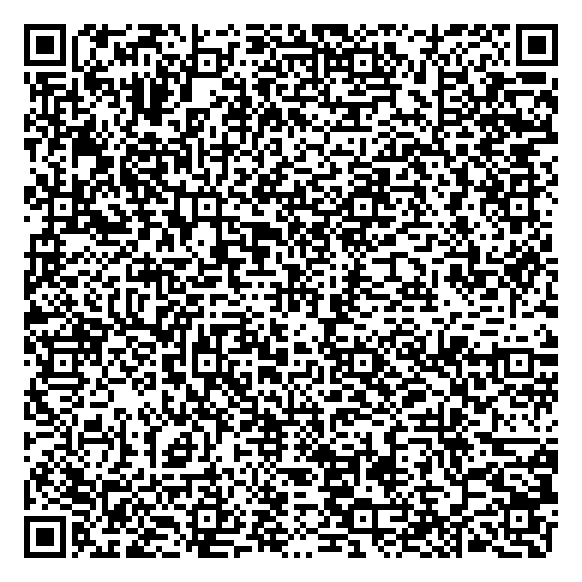
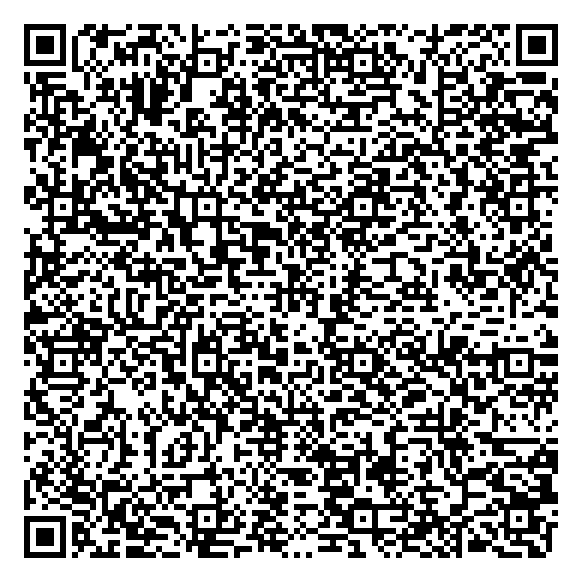
htyf

diff --git a/__tests__/runWhenIdle.test.ts b/__tests__/runWhenIdle.test.ts
@@ -1,0 +1,83 @@
+import runWhenIdle from '../src/utils/runWhenIdle';
+
+const originalIdleCallback = Object.getOwnPropertyDescriptor(
+    globalThis,
+    'requestIdleCallback',
+);
+
+describe('idle task scheduling in the HTYF host', () => {
+    beforeEach(() => {
+        jest.useFakeTimers();
+        Object.defineProperty(globalThis, 'requestIdleCallback', {
+            configurable: true,
+            writable: true,
+            value: undefined,
+        });
+    });
+
+    afterEach(() => {
+        jest.useRealTimers();
+        if (originalIdleCallback) {
+            Object.defineProperty(globalThis, 'requestIdleCallback', originalIdleCallback);
+        } else {
+            Reflect.deleteProperty(globalThis, 'requestIdleCallback');
+        }
+    });
+
+    test('yields before running when the host has no idle callback API', async () => {
+        const task = jest.fn(() => 42);
+        const result = runWhenIdle(task);
+
+        expect(task).not.toHaveBeenCalled();
+        await jest.runAllTimersAsync();
+
+        await expect(result).resolves.toBe(42);
+        expect(task).toHaveBeenCalledTimes(1);
+    });
+
+    test('uses an idle deadline without running the task immediately', async () => {
+        const callbacks: Array<() => void> = [];
+        const requestIdle = jest.fn((callback: () => void) => {
+            callbacks.push(callback);
+            return 1;
+        });
+        Object.defineProperty(globalThis, 'requestIdleCallback', {value: requestIdle});
+        const task = jest.fn(() => 'saved');
+        const result = runWhenIdle(task);
+
+        expect(requestIdle).toHaveBeenCalledWith(expect.any(Function), {timeout: 100});
+        expect(task).not.toHaveBeenCalled();
+        callbacks[0]?.();
+
+        await expect(result).resolves.toBe('saved');
+    });
+
+    test('waits for an asynchronous task to finish', async () => {
+        let finish: ((value: number) => void) | undefined;
+        const task = jest.fn(() => new Promise<number>(resolve => {
+            finish = resolve;
+        }));
+        const settled = jest.fn();
+        const result = runWhenIdle(task).then(value => {
+            settled(value);
+            return value;
+        });
+
+        await jest.runAllTimersAsync();
+        expect(task).toHaveBeenCalledTimes(1);
+        expect(settled).not.toHaveBeenCalled();
+        finish?.(42);
+
+        await expect(result).resolves.toBe(42);
+    });
+
+    test('propagates synchronous errors and asynchronous rejections', async () => {
+        const error = new Error('storage failed');
+        for (const task of [() => {throw error;}, () => Promise.reject(error)]) {
+            await Promise.all([
+                expect(runWhenIdle(task)).rejects.toBe(error),
+                jest.runAllTimersAsync(),
+            ]);
+        }
+    });
+});

diff --git a/__tests__/musicSheetStorage.test.ts b/__tests__/musicSheetStorage.test.ts
@@ -1,0 +1,36 @@
+jest.mock('react-native', () => ({}));
+jest.mock('../src/utils/getOrCreateMMKV', () => ({
+    __esModule: true,
+    default: () => mockDatabase,
+}));
+
+import storage from '../src/core/musicSheet/storage';
+
+const mockData = new Map<string, string>();
+const mockDatabase = {
+    set: jest.fn((key: string, value: string) => mockData.set(key, value)),
+    getString: (key: string) => mockData.get(key),
+};
+
+describe('music sheet persistence without InteractionManager', () => {
+    beforeEach(() => {
+        jest.useFakeTimers();
+        mockData.clear();
+        mockDatabase.set.mockClear();
+    });
+
+    afterEach(() => {
+        jest.useRealTimers();
+    });
+
+    test('persists the startup sheet list before the write promise resolves', async () => {
+        const sheets = [{id: 'startup-sheet', title: 'My music'}];
+        await Promise.all([
+            expect(storage.setSheets(sheets)).resolves.toBeUndefined(),
+            jest.runAllTimersAsync(),
+        ]);
+
+        expect(mockDatabase.set).toHaveBeenCalledWith('data', JSON.stringify(sheets));
+        expect(storage.getSheets()).toEqual(sheets);
+    });
+});

diff --git a/src/utils/runWhenIdle.ts b/src/utils/runWhenIdle.ts
@@ -1,0 +1,22 @@
+/**
+ * 将任务延后到 JS 空闲时执行；宿主未提供 idle API 时让出当前事件循环。
+ * 返回的 Promise 等待任务及其异步结果完成，并向调用方传递异常。
+ * 空闲回调设置 100ms 超时，避免繁忙界面一直推迟歌单写入或下载任务。
+ */
+export default function runWhenIdle<T>(task: () => T | PromiseLike<T>): Promise<T> {
+    return new Promise((resolve, reject) => {
+        const execute = () => {
+            try {
+                resolve(task());
+            } catch (error) {
+                reject(error);
+            }
+        };
+
+        if (typeof globalThis.requestIdleCallback === 'function') {
+            globalThis.requestIdleCallback(execute, {timeout: 100});
+        } else {
+            setTimeout(execute, 0);
+        }
+    });
+}

diff --git a/src/core/pluginManager.ts b/src/core/pluginManager.ts
@@ -14,7 +14,8 @@ import axios from "axios";
 import bigInt from "big-integer";
 import qs from "qs";
 import * as webdav from "webdav";
-import { InteractionManager, ToastAndroid } from "react-native";
+import { ToastAndroid } from "react-native";
+import runWhenIdle from "@/utils/runWhenIdle";
 import pathConst from "@/constants/pathConst";
 import { compare, satisfies } from "compare-versions";
 import DeviceInfo from "react-native-device-info";
@@ -1458,7 +1459,7 @@ function useSortedPlugins() {
     );
 
     useEffect(() => {
-        InteractionManager.runAfterInteractions(() => {
+        runWhenIdle(() => {
             setSortedPlugins(
                 [..._plugins].sort((a, b) =>
                     (_pluginMetaAll[a.name]?.order ?? Infinity) -

diff --git a/src/pages/musicDetail/components/bottom/playControl.tsx b/src/pages/musicDetail/components/bottom/playControl.tsx
@@ -1,5 +1,6 @@
 import React from 'react';
-import {InteractionManager, StyleSheet, View} from 'react-native';
+import {StyleSheet, View} from 'react-native';
+import runWhenIdle from '@/utils/runWhenIdle';
 import rpx from '@/utils/rpx';
 import repeatModeConst from '@/constants/repeatModeConst';
 
@@ -32,7 +33,7 @@ export default function () {
                     name={repeatModeConst[repeatMode].icon}
                     size={rpx(56)}
                     onPress={async () => {
-                        InteractionManager.runAfterInteractions(async () => {
+                        runWhenIdle(async () => {
                             await sleep(20);
                             TrackPlayer.toggleRepeatMode();
                         });

diff --git a/src/components/panels/types/playList/header.tsx b/src/components/panels/types/playList/header.tsx
@@ -1,5 +1,6 @@
 import React from 'react';
-import {InteractionManager, StyleSheet, View} from 'react-native';
+import {StyleSheet, View} from 'react-native';
+import runWhenIdle from '@/utils/runWhenIdle';
 import rpx from '@/utils/rpx';
 import ThemeText from '@/components/base/themeText';
 import repeatModeConst from '@/constants/repeatModeConst';
@@ -25,7 +26,7 @@ export default function Header() {
             </ThemeText>
             <IconTextButton
                 onPress={() => {
-                    InteractionManager.runAfterInteractions(async () => {
+                    runWhenIdle(async () => {
                         await sleep(20);
                         TrackPlayer.toggleRepeatMode();
                     });

diff --git a/src/core/musicSheet/storage.ts b/src/core/musicSheet/storage.ts
@@ -1,6 +1,6 @@
 import getOrCreateMMKV from '@/utils/getOrCreateMMKV.ts';
 import safeParse from '@/utils/safeParse.ts';
-import {InteractionManager} from 'react-native';
+import runWhenIdle from '@/utils/runWhenIdle';
 import safeStringify from '@/utils/safeStringify.ts';
 import {SortType} from '@/constants/commonConst.ts';
 
@@ -11,7 +11,7 @@ function getStorageBase(key: string) {
 }
 
 async function setStorageBase(key: string, value: any) {
-    return InteractionManager.runAfterInteractions(() => {
+    return runWhenIdle(() => {
         const mmkv = getOrCreateMMKV(`LocalSheet.${key}`);
         mmkv.set('data', safeStringify(value));
     });

diff --git a/src/core/download.ts b/src/core/download.ts
@@ -7,7 +7,7 @@ import { getQualityOrder } from "@/utils/qualities";
 import StateMapper from "@/utils/stateMapper";
 import Toast from "@/utils/toast";
 import { produce } from "immer";
-import { InteractionManager } from "react-native";
+import runWhenIdle from "@/utils/runWhenIdle";
 import { copyFile, downloadFile, exists, unlink } from '@dr.pogodin/react-native-fs';
 
 import Config from "./config.ts";
@@ -353,7 +353,7 @@ async function downloadNext() {
 }
 
 async function downloadNextAfterInteraction() {
-    InteractionManager.runAfterInteractions(downloadNext);
+    runWhenIdle(downloadNext);
 }
 
 /** 加入下载队列 */

diff --git a/readme.md b/readme.md
@@ -5,12 +5,12 @@ MusicFree for the HTYF host, with plugin search, playback, lyrics and playlists.
 
 ## 预览、分享与使用 / Preview, Share and Use
 
-[打开分享页 / Open the share page](https://mp.dagouzhi.com/share?data=%7B%22type%22%3A%22app%22%2C%22version%22%3A%220.0.64%22%2C%22name%22%3A%22MusicFree%22%2C%22appid%22%3A%22plugin_music%22%2C%22rotate%22%3A%22portrait%22%2C%22appUrlConfig%22%3A%22https%3A%2F%2Fraw.githubusercontent.com%2Fhtyf-mp-community%2Fdemo%2Fmain%2Fv2%2Fplugin_music%2Flatest%2Fapp.json%22%2C%22zipUrl%22%3A%22https%3A%2F%2Fraw.githubusercontent.com%2Fhtyf-mp-community%2Fdemo%2Fmain%2Fv2%2Fplugin_music%2Flatest%2Fdist.dgz%22%2C%22projectname%22%3A%22MusicFree%22%2C%22engines%22%3A%222.0.0%22%7D) · 应用 ID / App ID: `plugin_music` · 版本 / Version: `0.0.64`
+[打开分享页 / Open the share page](https://mp.dagouzhi.com/share?data=%7B%22type%22%3A%22app%22%2C%22version%22%3A%220.0.66%22%2C%22name%22%3A%22MusicFree%22%2C%22appid%22%3A%22plugin_music%22%2C%22rotate%22%3A%22portrait%22%2C%22appUrlConfig%22%3A%22https%3A%2F%2Fraw.githubusercontent.com%2Fhtyf-mp-community%2Fdemo%2Fmain%2Fv2%2Fplugin_music%2Flatest%2Fapp.json%22%2C%22zipUrl%22%3A%22https%3A%2F%2Fraw.githubusercontent.com%2Fhtyf-mp-community%2Fdemo%2Fmain%2Fv2%2Fplugin_music%2Flatest%2Fdist.dgz%22%2C%22projectname%22%3A%22MusicFree%22%2C%22engines%22%3A%222.0.0%22%7D) · 应用 ID / App ID: `plugin_music` · 版本 / Version: `0.0.66`
 
 ![MusicFree 分享二维码 / MusicFree share QR code](docs/assets/htyf-share-qr.png)
 
-此入口需要红糖云服 App。线上配置与资源地址可访问，当前为旧构建；此次模板更新后的资源包尚未上传，扫码添加和打开的真机验证待完成。
-This entry requires the HTYF App. The online config and package are reachable and serve the previous build. The package from this template update has not been uploaded; device scan, add and open checks are pending.
+此入口需要红糖云服 App。线上配置与资源地址可访问，当前为旧构建；0.0.66 修复包尚未上传，扫码添加和打开的真机验证待完成。
+This entry requires the HTYF App. The online config and package are reachable and serve the previous build. The 0.0.66 fix package has not been uploaded; device scan, add and open checks are pending.
 
 1. 访问[红糖云服官网](https://mp.dagouzhi.com)，从下载入口安装并打开 App。
    Visit the [HTYF website](https://mp.dagouzhi.com), then download, install and open the App.
@@ -23,6 +23,9 @@ This entry requires the HTYF App. The online config and package are reachable an
 
 发布前，需将 `dist/app.json` 上传到 [appUrlConfig](https://raw.githubusercontent.com/htyf-mp-community/demo/main/v2/plugin_music/latest/app.json)，将 `dist/dist.dgz` 上传到 [zipUrl](https://raw.githubusercontent.com/htyf-mp-community/demo/main/v2/plugin_music/latest/dist.dgz)。打包不会自动上传文件。
 Before release, upload `dist/app.json` to [appUrlConfig](https://raw.githubusercontent.com/htyf-mp-community/demo/main/v2/plugin_music/latest/app.json) and `dist/dist.dgz` to [zipUrl](https://raw.githubusercontent.com/htyf-mp-community/demo/main/v2/plugin_music/latest/dist.dgz). Packaging does not upload these files.
+
+0.0.66 修复启动崩溃，见 [运行修复记录](.htyf-migration/runtime-fix-2026-11-05.md)。
+Version 0.0.66 fixes the startup crash; see the [runtime fix record](.htyf-migration/runtime-fix-2026-11-05.md).
 
 ## 开发与模板版本 / Development and Template Version
 

diff --git a/.htyf-migration/runtime-fix-2026-11-05.md b/.htyf-migration/runtime-fix-2026-11-05.md
@@ -1,0 +1,51 @@
+# 0.0.66：修复启动时 runAfterInteractions 崩溃
+
+用户在 iOS 宿主启动 `plugin_music` 时遇到：
+
+```text
+TypeError: Cannot read property 'runAfterInteractions' of undefined
+```
+
+## 根因与复现
+
+当前 RN 0.88.1 已移除 `InteractionManager`，生产环境不再导出这个对象。
+目标业务仍有五处直接调用：歌单持久化、插件列表排序、下载队列、播放器的循环模式
+按钮和播放列表的循环模式按钮。启动时的歌单初始化会进入 `storage.setSheets`。
+
+回归用例通过真实的 `storage.setSheets` 入口，在不导出 InteractionManager 的 RN
+环境中调用歌单写入，首次运行复现了与截图一致的 TypeError：
+
+```sh
+node node_modules/jest/bin/jest.js --runInBand --watchman=false __tests__/musicSheetStorage.test.ts
+```
+
+同一个用例在修复后通过，确认歌单确实写入，且返回的 Promise 在写入后完成。
+
+## 修复
+
+- 使用 `src/utils/runWhenIdle.ts` 统一延后任务：优先使用 `requestIdleCallback`，
+  传入 100ms 超时参数；宿主未提供该 API 时用 `setTimeout` 让出当前事件循环。
+- 替换五处旧调用，保留异步任务完成和异常传播，歌单初始化仍可等待写入完成。
+- 新增调度回归，覆盖缺少 idle API、提供 idle API、异步任务完成及异常传播。
+- 将修复包版本从 0.0.65 提升至 0.0.66，便于宿主更新到修复后的资源而非复用旧包。
+
+React Native 官方建议迁移到
+[requestIdleCallback](https://reactnative.dev/docs/global-requestIdleCallback)；
+该 API 不提供旧交互句柄的动画完成屏障，本项目使用它来延后上述后台任务。
+
+## 验证
+
+- 五个测试套件、22 项测试通过，包含曾经失败的真实歌单写入入口。
+- 新工具函数和两个新测试文件 ESLint：0 错误、0 警告。
+- 目标业务和当前依赖中已无 `runAfterInteractions` 调用。
+- iOS 和 Android 均编译通过，各有一个原有 Reanimated 动态 require 警告。
+- 解压校验双端包 CRC，并检查实际 JS bundle，均已没有 `runAfterInteractions` 引用。
+- iOS 包：1,709,331 字节；bundle：8,349,014 字节。
+- Android 包：1,710,133 字节；bundle：8,354,760 字节。
+- 双端产物分别留在 `build/verification/ios/` 和 `build/verification/android/`。
+  当前 `dist/` 恢复为用户截图对应的 iOS 0.0.66 输出。
+- 全量 TypeScript 仍有 133 个既存业务诊断，新工具函数和测试没有类型错误；全量
+  ESLint 仍为 84 个业务错误、3727 个警告。
+- 分享二维码已同步为 `plugin_music@0.0.66`，需上传 `dist/app.json` 和
+  `dist/dist.dgz` 至项目配置的对应地址后加载新版。
+- 尚未在用户手机上重新运行；部署 0.0.66 的配置及资源包后，需重新加载新版验证。

diff --git a/.htyf-migration/migration-checklist.md b/.htyf-migration/migration-checklist.md
@@ -35,8 +35,8 @@ until all items below pass validation.
 - [ ] Audit every dialog, panel, menu and toast for in-tree overlay ownership and back dismissal.
 - [ ] Review exported API documentation and replace vague TODO comments.
 - [ ] Run typecheck, lint, unit tests and device-level acceptance checks.
-  After the template update, unit tests pass (17/17) and the changed build/lint
-  configuration passes ESLint. Full TypeScript validation reports 138 errors,
+  After the startup compatibility fix, unit tests pass (22/22) and the changed
+  scheduling utility/tests pass ESLint. Full TypeScript validation reports 133 errors,
   and full ESLint reports 84 errors, so this item remains open. See
   [template-update.md](template-update.md) for build evidence and remaining checks.
 
@@ -56,3 +56,11 @@ See [template-update.md](template-update.md) for the version changes, preserved
 application files, verification results and remaining host/native checks.
 This template update does not complete the feature inventory or advance its
 source migration baseline.
+
+## Startup runtime fix: 2026-11-05
+
+Removed five application calls to the deleted React Native InteractionManager
+API. The real startup sheet-storage regression now passes without that API.
+See [runtime-fix-2026-11-05.md](runtime-fix-2026-11-05.md) for the reproduced
+error, 0.0.66 scheduling adaptation, tests and build evidence. Device acceptance
+still requires loading the rebuilt package in the HTYF host.

diff --git a/.htyf-migration/template-update.md b/.htyf-migration/template-update.md
@@ -1,5 +1,8 @@
 # HTYF 官方模板更新（2026-11-03）
 
+以下为模板升级当时的记录。2026-11-05 的 0.0.66 启动修复、最新测试与产物状态见
+[运行修复记录](runtime-fix-2026-11-05.md)。
+
 源项目：`/Users/dgz/code/github/MusicFree`；默认更新目标：
 `/Users/dgz/code/github/MusicFree/HTYF`，应用类型为直接 React Native 应用。
 官方来源：[htyf-cli main@8c6fc84](https://github.com/htyf-mp-community/htyf-cli/commit/8c6fc84077470bee05af97d6cf04682a0977c210)，
